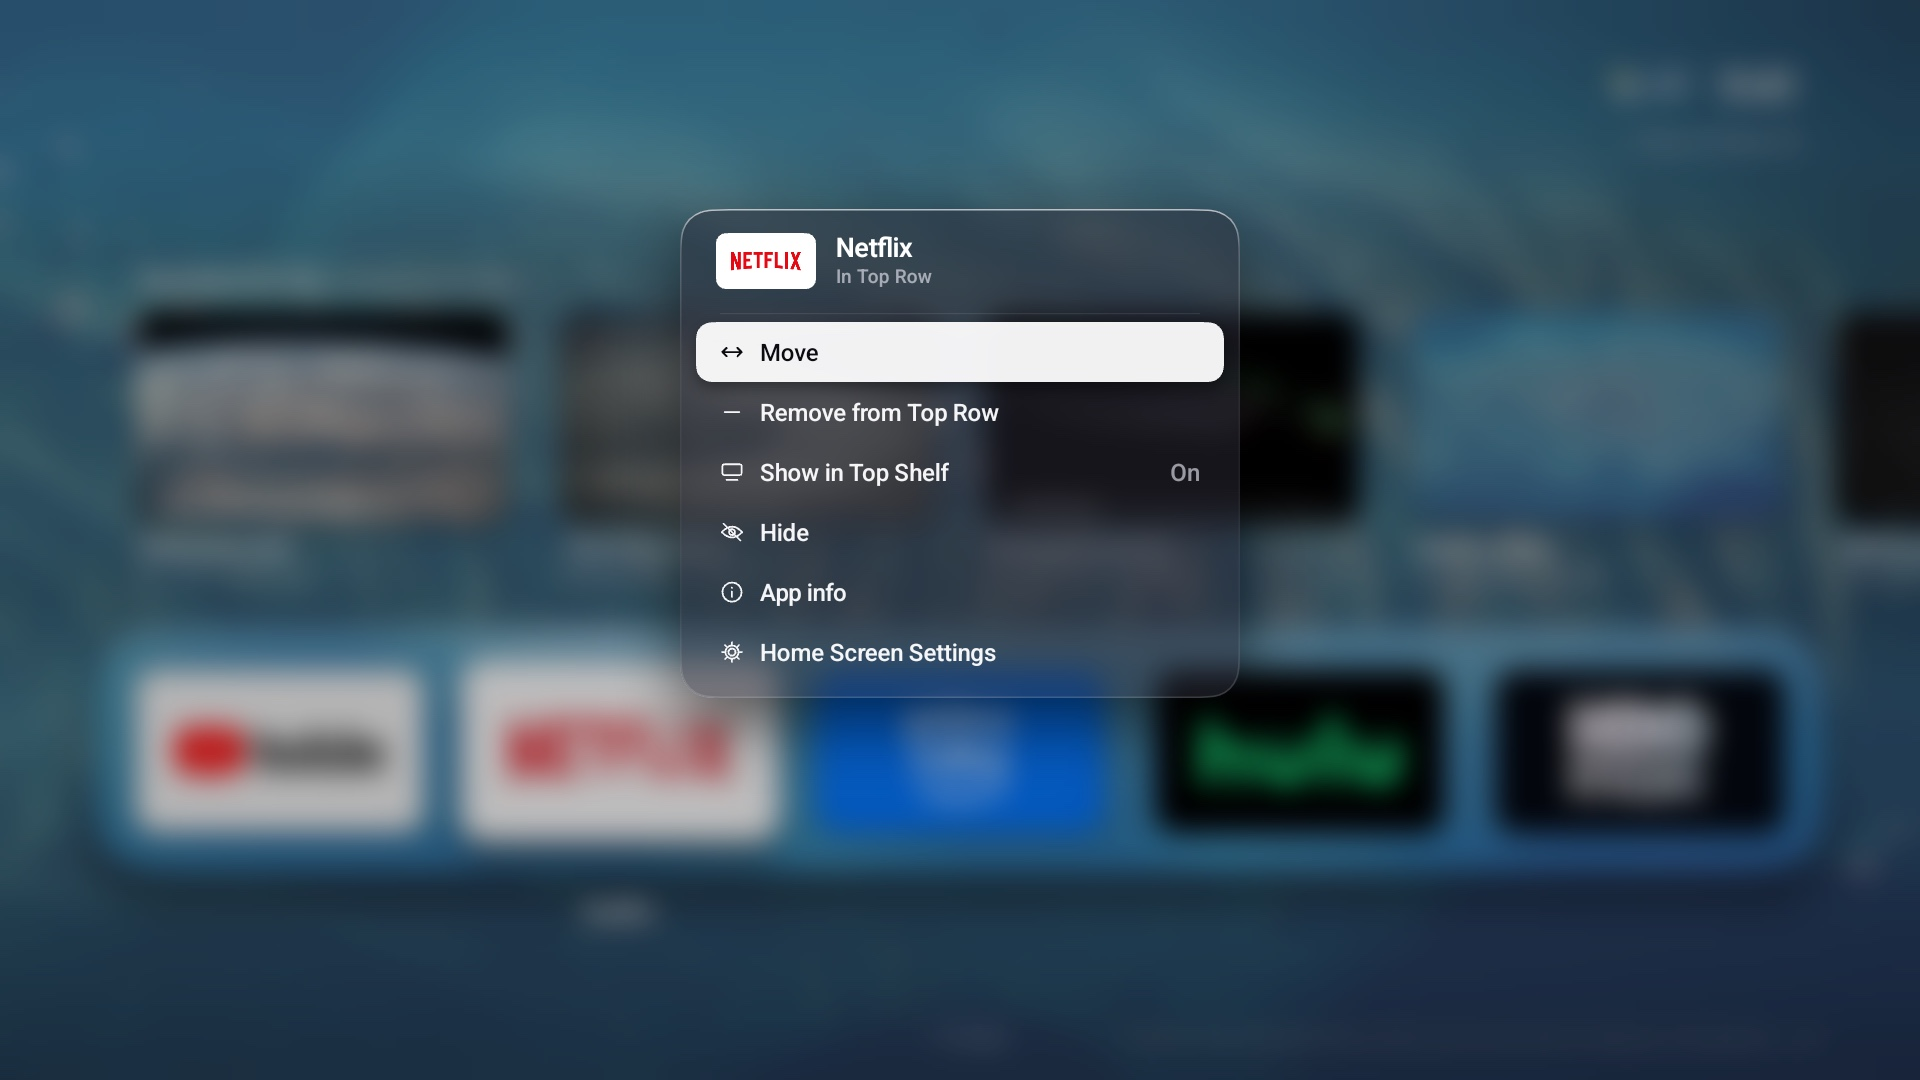
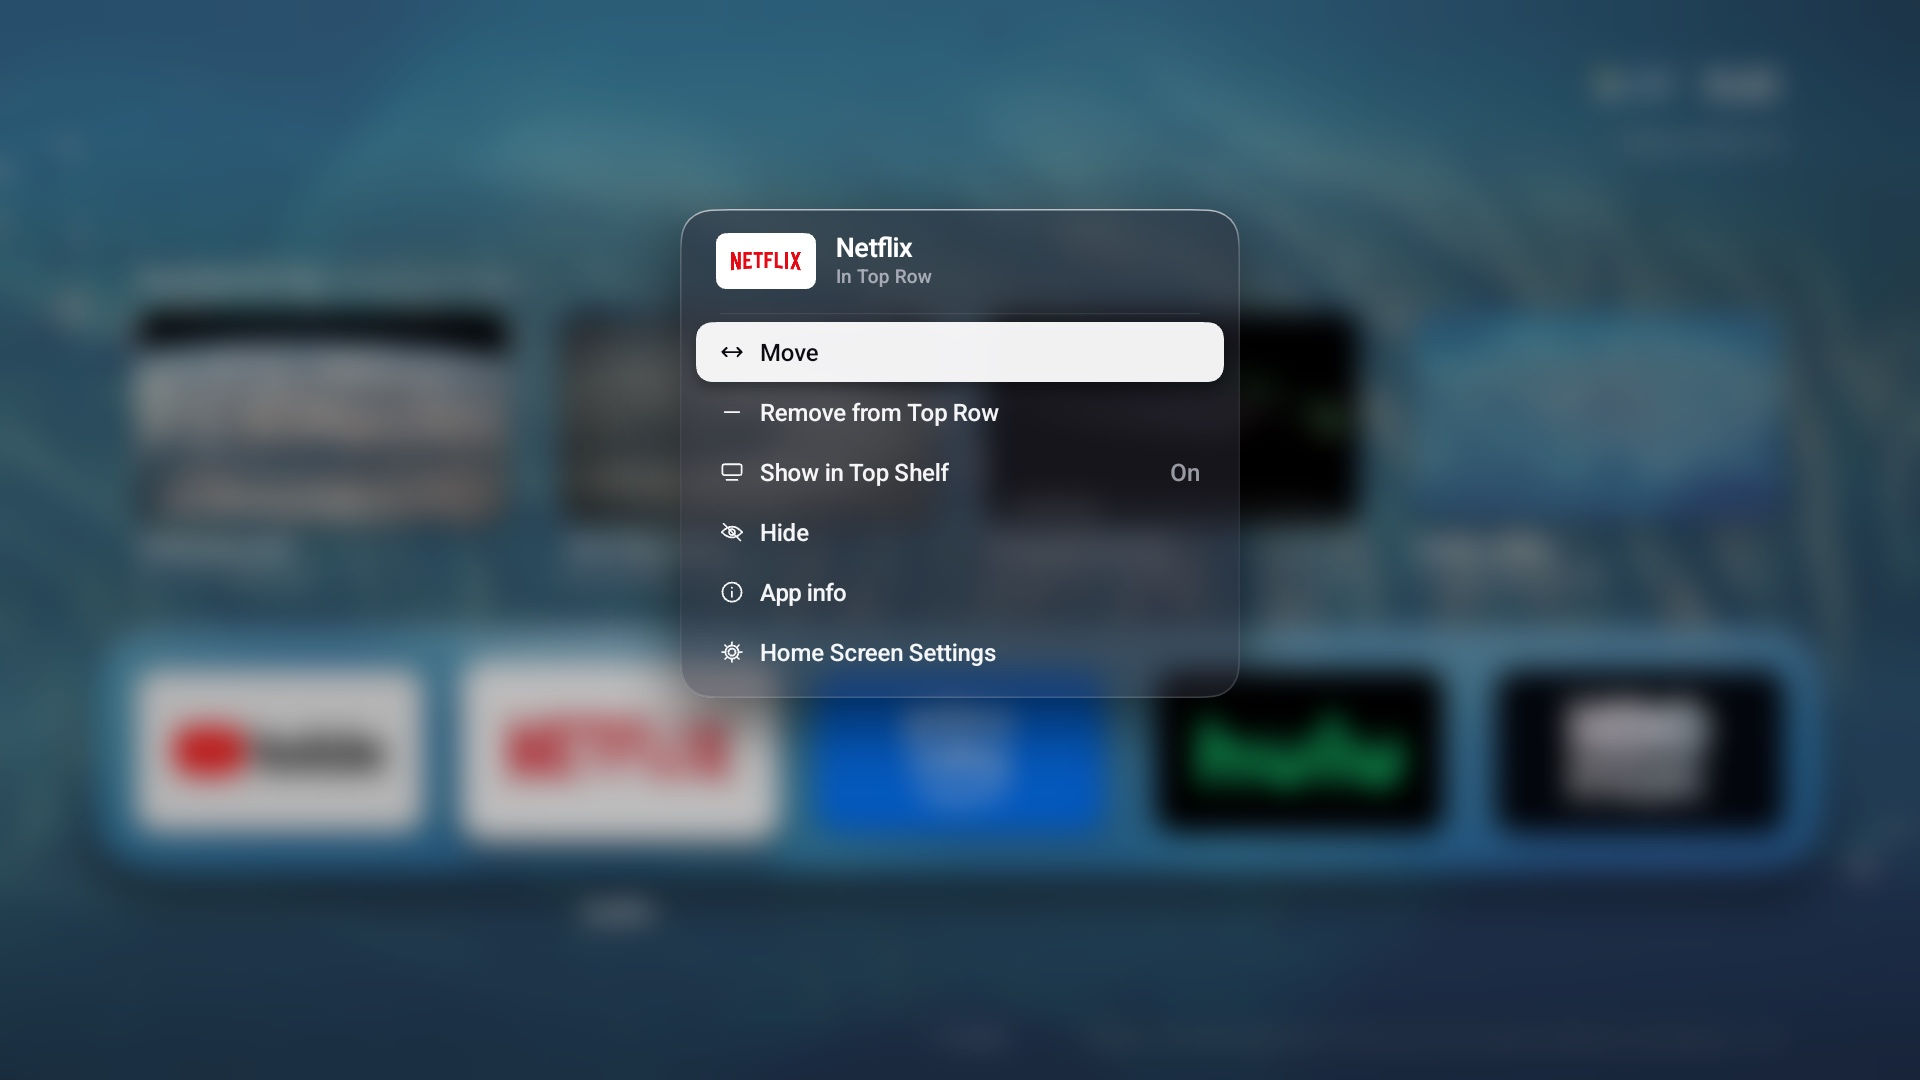
Align the home screen to the dock and smooth the tile corners
The clock, date, photo credit and Top Shelf now end on the dock tiles'
right edge, and the focused clock pill sits flush with the dock's outer
edge. Top Shelf cards are clipped to the dock's width instead of running
off the screen. App tiles, cards and their focus rings use the fully
smoothed squircle. Screenshots and DESIGN.md are refreshed.

Changed region(s): [[0.9375, 0.275, 1.0, 0.55]]

diff --git a/app/src/dev/lumen/tv/HomeView.java b/app/src/dev/lumen/tv/HomeView.java
@@ -43,8 +43,8 @@ final class HomeView extends View implements Overlays.Host {
 
     // ---- Layout (design px) ----
     private static final float PAD = 40, GAP = 52, TILE_W = AppStore.TILE_W, TILE_H = AppStore.TILE_H;
-    private static final float DOCK_W = Ui.W - 2 * Ui.SAFE_X, LEFT = Ui.SAFE_X + PAD;  // ROW_MAX tiles fill the dock exactly
-    private static final float R_TILE = 20, R_DOCK = R_TILE + PAD, DOCK_SMOOTH = 1, DOCK_BOTTOM = 872, ROW_MAX = 5;
+    private static final float DOCK_W = Ui.W - 2 * Ui.SAFE_X, LEFT = Ui.SAFE_X + PAD, RIGHT = Ui.W - LEFT;  // ROW_MAX tiles fill the dock exactly; text aligns to the tiles
+    private static final float R_TILE = 20, R_DOCK = R_TILE + PAD, DOCK_SMOOTH = 1, TILE_SMOOTH = 1, DOCK_BOTTOM = 872, ROW_MAX = 5;
     private static final float CARD_W_MAX = 520, CARD_H_MAX = CARD_W_MAX * 9 / 16;
     private float cardW, cardH, shelfTop, cardTop;  // set by layoutShelf() from the Card size setting
     private static final float GRID_TOP = 1018, GRID_STEP_Y = TILE_H + 84, APPS_SHIFT = 540;
@@ -714,7 +714,7 @@ final class HomeView extends View implements Overlays.Host {
     private void drawCredit(Canvas c, float appsT) {
         if (photoCredit == null || appsT > .99f) return;
         creditP.setAlpha(Math.round(Color.alpha(Ui.TEXT_3) * (1 - appsT)));
-        c.drawText(photoCredit, Ui.W - Ui.SAFE_X, Ui.H - 38, creditP);
+        c.drawText(photoCredit, RIGHT, Ui.H - 38, creditP);
     }
 
     private void drawTopBar(Canvas c) {
@@ -731,7 +731,7 @@ final class HomeView extends View implements Overlays.Host {
         float f = focusOf(STATUS_KEY), fc = Ui.clamp(f, 0, 1);
         final float R = Ui.BAR_RIGHT, cy = Ui.BAR_TOP + Ui.BAR_H / 2, sep = 14, hair = 1.5f;
         float chipD = Ui.CHIP_D, gearRoom = Ui.CHIP_INSET + chipD + sep + hair + sep;  // what the chip adds on the right
-        float x = R - Ui.TEXT_INSET - (gearRoom - Ui.TEXT_INSET) * fc;          // right edge of the text content
+        float x = RIGHT - (RIGHT - R + gearRoom) * fc;  // right edge of the text: the tiles' edge at rest, inside the pill focused
 
         float clockW = showClock ? clockP.measureText(clockText) : 0;
         String t = showWx ? weather.temp + "°" : null;
@@ -762,7 +762,7 @@ final class HomeView extends View implements Overlays.Host {
             clockP.setAlpha(255);
             c.drawText(clockText, x, cy + .36f * clockP.getTextSize(), clockP);
             if (prefs.is(Prefs.DATE, "on") && overlays.mode != Overlays.PANEL)
-                c.drawText(DateFormat.format("EEEE, MMMM d", now).toString(), R - Ui.TEXT_INSET, Ui.BAR_TOP + Ui.BAR_H + 30, dateP);
+                c.drawText(DateFormat.format("EEEE, MMMM d", now).toString(), RIGHT, Ui.BAR_TOP + Ui.BAR_H + 30, dateP);
             x -= clockW;
         }
         if (!showWx) return;
@@ -789,13 +789,16 @@ final class HomeView extends View implements Overlays.Host {
         c.drawText(suffix, left + headP.measureText(shelf.heading), shelfTop + 25, headAppP);
         // the focused card draws last, so its shadow lies over its neighbours
         int focusedIdx = area == Area.SHELF ? cardI : -1;
+        c.save();
+        c.clipRect(Ui.SAFE_X, -Ui.H, Ui.W - Ui.SAFE_X, 2 * Ui.H);  // cards end with the dock, not at the screen edge
         for (int i = 0; i < shelf.items.size(); i++) {
             if (i == focusedIdx) continue;
             float x = left + i * (cardW + GAP) - cardScroll.x;
-            if (x > Ui.W + 40 || x + cardW < -40) continue;
+            if (x > Ui.W - Ui.SAFE_X || x + cardW < Ui.SAFE_X) continue;
             drawCard(c, shelf.items.get(i), x, cardTop, a);
         }
         if (focusedIdx >= 0) drawCard(c, shelf.items.get(focusedIdx), left + focusedIdx * (cardW + GAP) - cardScroll.x, cardTop, a);
+        c.restore();
     }
 
     /** Card geometry for the Card size setting. Large cards lift the shelf so their text clears the dock. */
@@ -828,7 +831,7 @@ final class HomeView extends View implements Overlays.Host {
         } else {  // artwork still loading, or none: a quiet card with the title
             fill.setShader(null);
             fill.setColor(Color.argb(Math.round(.9f * alpha), 38, 40, 50));
-            rrect(c, r, R_TILE * sc, fill);
+            rrect(c, r, R_TILE * sc, TILE_SMOOTH, fill);
             cardTitleP.setAlpha(alpha);
             c.save();
             c.clipRect(r);
@@ -961,12 +964,12 @@ final class HomeView extends View implements Overlays.Host {
         c.restore();
     }
 
-    /** Static top light and a crisp focus ring shared by apps and recommendations. */
+    /** Static top light and a crisp focus ring shared by apps and recommendations, all with smoothed corners. */
     private void tileFinish(Canvas c, RectF rr, float radius, float f, int alpha) {
         if (f > 0.01f) {
             fill.setColor(Color.WHITE);
             unit(fill, sheenU, rr.top, rr.height(), Math.round(255 * Ui.clamp(f, 0, 1) * alpha / 255f));
-            rrect(c, rr, radius, fill);
+            rrect(c, rr, radius, TILE_SMOOTH, fill);
             fill.setShader(null);
             fill.setAlpha(255);
         }
@@ -975,12 +978,14 @@ final class HomeView extends View implements Overlays.Host {
         stroke.setShader(null);
         stroke.setAlpha(255);
         stroke.setColor(Color.argb(Math.round(28 * alpha / 255f), 255, 255, 255));
-        rrect(c, rr.left + .6f, rr.top + .6f, rr.right - .6f, rr.bottom - .6f, radius, stroke);
+        rimRect.set(rr.left + .6f, rr.top + .6f, rr.right - .6f, rr.bottom - .6f);
+        rrect(c, rimRect, radius - .6f, TILE_SMOOTH, stroke);
         float focused = Ui.clamp(f, 0, 1) * alpha / 255f;
         if (focused > .01f) {
             stroke.setStrokeWidth(3);
             stroke.setColor(Color.argb(Math.round(255 * focused), 255, 255, 255));
-            rrect(c, rr.left - 4, rr.top - 4, rr.right + 4, rr.bottom + 4, radius + 4, stroke);
+            rimRect.set(rr.left - 4, rr.top - 4, rr.right + 4, rr.bottom + 4);
+            rrect(c, rimRect, radius + 4, TILE_SMOOTH, stroke);
         }
         stroke.setStrokeWidth(1.2f);
         stroke.setAlpha(255);
@@ -993,7 +998,7 @@ final class HomeView extends View implements Overlays.Host {
         sh.setLocalMatrix(m);
         bmp.setShader(sh);
         bmp.setAlpha(alpha);
-        rrect(c, rr, radius, bmp);
+        rrect(c, rr, radius, TILE_SMOOTH, bmp);
         bmp.setShader(null);
         bmp.setAlpha(255);
     }

diff --git a/docs/design/DESIGN.md b/docs/design/DESIGN.md
@@ -39,10 +39,10 @@ a browser. The arrow keys act as the D-pad, Enter as OK (hold it for the tile me
 | Element | Spec |
 |---|---|
 | Safe area | 96 px left/right, 64 px top/bottom (TV overscan); content aligns to x = 185 px |
-| Clock | Top-right, 40 px, Inter Medium, −2% tracking, tabular figures, 95% white. Optional date below, 21 px, 62% white |
+| Clock | Top-right, its right edge (and the date's) on the dock tiles' right edge, 40 px, Inter Medium, −2% tracking, tabular figures, 95% white. Optional date below, 21 px, 62% white |
 | Weather | Left of the clock, separated by a 1.5 px hairline: a color glyph (34 px) and the temperature, 30 px Medium, 62% white |
 | Top Shelf | Heading at y = 262 px: **Top Picks for You**, 25 px SemiBold, then “across your apps” in 62% white. Cards span the dock's tile columns, so the first card aligns with the first tile: Standard 4 across (373×210 px), Compact 5, Large 3; radius 20, gap 52, with the episode/time line |
-| Dock | Glass (see Materials), full width between the 96 px overscan margins, bottom edge at 81% of screen height. Padding 40 px, tile gap 52 px, so five tiles fill it exactly; radius 60 px = tile radius + padding, so the curves are concentric. Its corners use fully smoothed (Figma 100%) squircles that ease in over 2× the radius |
+| Dock | Glass (see Materials), full width between the 96 px overscan margins, bottom edge at 81% of screen height. Padding 40 px, tile gap 52 px, so five tiles fill it exactly; radius 60 px = tile radius + padding, so the curves are concentric. Its corners use fully smoothed (Figma 100%) squircles that ease in over 2× the radius. App tiles and Top Shelf cards (radius 20) use the same full smoothing, as do their focus rings. Everything shares the dock's edges: text ends on the tiles' outer edge and Top Shelf cards are clipped to the dock's width |
 | Tiles | 16:9, radius 20 px. Medium 288×162 px (default, five across), Small 232×130 (six), Large 376×211 (four) |
 | Focus | A crisp white 3 px focus ring, with a 2.5 px gap and no glow or dark edge on apps and recommendation cards, plus scale 1.09 (cards 1.07) over 240 ms, deep soft shadow and a low-contrast, static top-light sheen. Focused tiles and cards add a softly eased 0.4% double-beat pulse every 3.4 s; it starts only after D-pad navigation. Home restores stable focus by app/content identity at rest, without a zoom replay or entry pulse. Focus springs are critically damped. Reduced motion and open menus pause it. The dock's specular highlight slides to sit above the focused tile |
 | Label | Focused tile only (default). 25 px SemiBold, 22 px under the dock |
